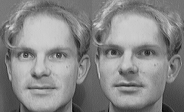
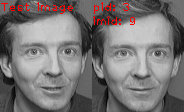
Add reconstruction

diff --git a/mytest.cpp b/mytest.cpp
@@ -35,7 +35,6 @@ int main(int argc, char const *argv[]) {
     string test_eye_location = argv[3];
     Mat masked_test_face = cropForMask(img_name, test_eye_location);
     masked_test_face.reshape(1, 1).convertTo(masked_test_face, CV_64FC1);
-    masked_test_face /= 255.0; // Squeeze to [0,1]
     masked_test_face -= avg_img;
 
     // Project to subspace
@@ -44,8 +43,7 @@ int main(int argc, char const *argv[]) {
     // Calculate loss
     vector<double> loss_vec;
     for (int i = 0; i < sub_faces.cols; ++i) {
-        Mat diff = sub_faces.col(i) - test_feature;
-        double loss = norm(diff, NORM_L2); // Use l2 norm
+        double loss = getLoss(sub_faces.col(i), test_feature);
         loss_vec.push_back(loss);
     }
 
@@ -63,13 +61,47 @@ int main(int argc, char const *argv[]) {
     stringstream ss;
     ss << "../dataset/train/s" << labels.at<int>(id, 0) << "/";
     ss << labels.at<int>(id, 1) << ".pgm";
-    Mat matched_face = imread(ss.str(), IMREAD_GRAYSCALE); // Load matched face in face library
-    Mat test_face = imread(img_name, IMREAD_GRAYSCALE); // Load test face
+    Mat matched_face = imread(ss.str(), IMREAD_COLOR); // Load matched face in face library
+    Mat test_face = imread(img_name, IMREAD_COLOR); // Load test face
     Mat concat_face;
+    
+    // Blending with factor of 0.5
+    Mat blend_face;
+    Mat blend_mask = Mat::ones(test_face.rows, test_face.cols, CV_32FC1) * 0.5;
+    blendLinear(test_face, matched_face, blend_mask, blend_mask, blend_face);
+    imwrite("blended.png", blend_face);
+    cout << "Blended face is saved." << endl;
+
+    // Reconstruction
+    Mat recon_face = Mat::zeros(1, MASK_HEIGHT*MASK_WIDTH, CV_64FC1);
+    for (int i = 0; i < test_feature.rows; ++i) {
+        recon_face += test_feature.at<double>(i, 0) * transform_mat.row(i);
+    }
+
+    // Normalize into 0-255
+    double max_value, min_value;
+    minMaxLoc(recon_face, &min_value, &max_value);
+    recon_face = (recon_face - min_value) / (max_value - min_value) * 255.0;
+    
+    // Add average face
+    recon_face += avg_img;
+    minMaxLoc(recon_face, &min_value, &max_value);
+    recon_face = (recon_face - min_value) / (max_value - min_value) * 255.0;
+    recon_face.reshape(1, MASK_HEIGHT).convertTo(recon_face, CV_8UC1);
+    imwrite("reconstructed.png", recon_face);
+    cout << "Reconstructed face is saved." << endl;
+    
+    // Print text
+    ss.str("");
+    ss << "pid: " << labels.at<int>(id, 0);
+    putText(test_face, "Test image", Point(0, 11), FONT_HERSHEY_PLAIN , 0.8, Scalar(0,0,255));
+    putText(matched_face, ss.str(), Point(0, 11), FONT_HERSHEY_PLAIN , 0.8, Scalar(0,0,255));
+    ss.str("");
+    ss << "imid: " << labels.at<int>(id, 1);
+    putText(matched_face, ss.str(), Point(0, 25), FONT_HERSHEY_PLAIN , 0.8, Scalar(0,0,255));
     hconcat(test_face, matched_face, concat_face); // Concatenate two faces as an image
     imwrite("best_match.png", concat_face);
     cout << "Best matched result is saved." << endl;
     cout << "--- End ---" << endl;
-
     return 0;
 }

diff --git a/utils.cpp b/utils.cpp
@@ -142,7 +142,6 @@ void trainEigenface(const vector< tuple<Mat, int, int> > &train_img_vec, const s
         label.at<int>(0, 0) = l1;
         label.at<int>(0, 1) = l2;
         ft.convertTo(ft, CV_64FC1);
-        ft /= 255.0; // Squeeze in [0,1];
         all_features.push_back(ft);
         labels.push_back(label);
     }
@@ -163,7 +162,7 @@ void trainEigenface(const vector< tuple<Mat, int, int> > &train_img_vec, const s
     visualizeTopKFaces(eigenface_mat.colRange(0, k));
 
     // Compress training data into subspace
-    Mat sub_faces = eigenface_mat.colRange(0, k).t() * T; // sub_faces: (9900, k)
+    Mat sub_faces = eigenface_mat.colRange(0, k).t() * T;
     
     // Save model
     FileStorage model_writer(model_save_name+".json", FileStorage::WRITE);
@@ -180,4 +179,12 @@ void trainEigenface(const vector< tuple<Mat, int, int> > &train_img_vec, const s
     model_writer << "transform_mat" << eigenface_mat.colRange(0, k).t();
     model_writer.release();
     cout << "Eigenface model is saved as " << model_save_name << ".json" << endl;
+}
+
+double getLoss(const Mat &m1, const Mat &m2) {
+    double loss;
+    // L2 loss
+    Mat diff = m1 - m2;
+    loss = norm(diff, NORM_L2);
+    return loss;
 }

diff --git a/utils.h b/utils.h
@@ -16,7 +16,7 @@ using namespace std;
 using namespace cv;
 
 // Dataset parameters
-const int PEOPLE_NUM = 40; // 40 people
+const int PEOPLE_NUM = 41; // People amount
 const int TRAIN_IMG_NUM = 9; // 9 images to train for each person
 
 // Mask parameters
@@ -32,5 +32,6 @@ Mat removeAvg(const Mat &src_mat, Mat &dst_mat);
 int getBaseFacesNum(const Mat &eigenface_mat, const Mat &eigenvalue_mat, double energy_ratio);
 void visualizeTopKFaces(const Mat &eigenface_mat);
 void trainEigenface(const vector< tuple<Mat, int, int> > &train_img_vec, const string &model_save_name, double energy_ratio);
+double getLoss(const Mat &m1, const Mat &m2);
 
 #endif // UTILS_H

diff --git a/README.md b/README.md
@@ -22,7 +22,7 @@ I calculate the corvariance matrix of a small training set of face images and th
 
 We use the eigenfaces to implement a dimensionality reduction on training data, which compresses a face image to a vector with fewer dimensions. When there comes a new test image, we apply the same reduction process on it and then calculate the similarity between the test vector (from the test image) and all other training vectors compressed from training faces before.
 
-### Dataset
+## Dataset
 
 - The ORL face database, Olivetti Research Laboratory in Cambridge, UK
 
@@ -45,12 +45,9 @@ Each images is labeled with a `txt` file documenting the location of eyes. This 
      - val/
        - ...
   Make sure that each image is labeled by a eye location `txt` and they should be placed in the same folder.
-3. In `utils.h`, change these settings:
-   ```c++
-   const 
-   ```
+3. In `utils.h`, change the settings about image size and amount.
 
-### Usage
+## Usage
 
 1. Clone this repo.
 2. Build the source code with cmake. You may need to edit the `CMakeLists.txt` to hit your requirement. Make sure dependencies were installed correctly before.
@@ -63,3 +60,7 @@ Each images is labeled with a `txt` file documenting the location of eyes. This 
    ```bash
    ./mytest test.png model.json test_eye_location.txt
    ```
+
+## References
+
+- [Low-dimensional procedure for the characterization of human faces](https://www.osapublishing.org/josaa/abstract.cfm?uri=josaa-4-3-519), L. Sirovich and M. Kirby
